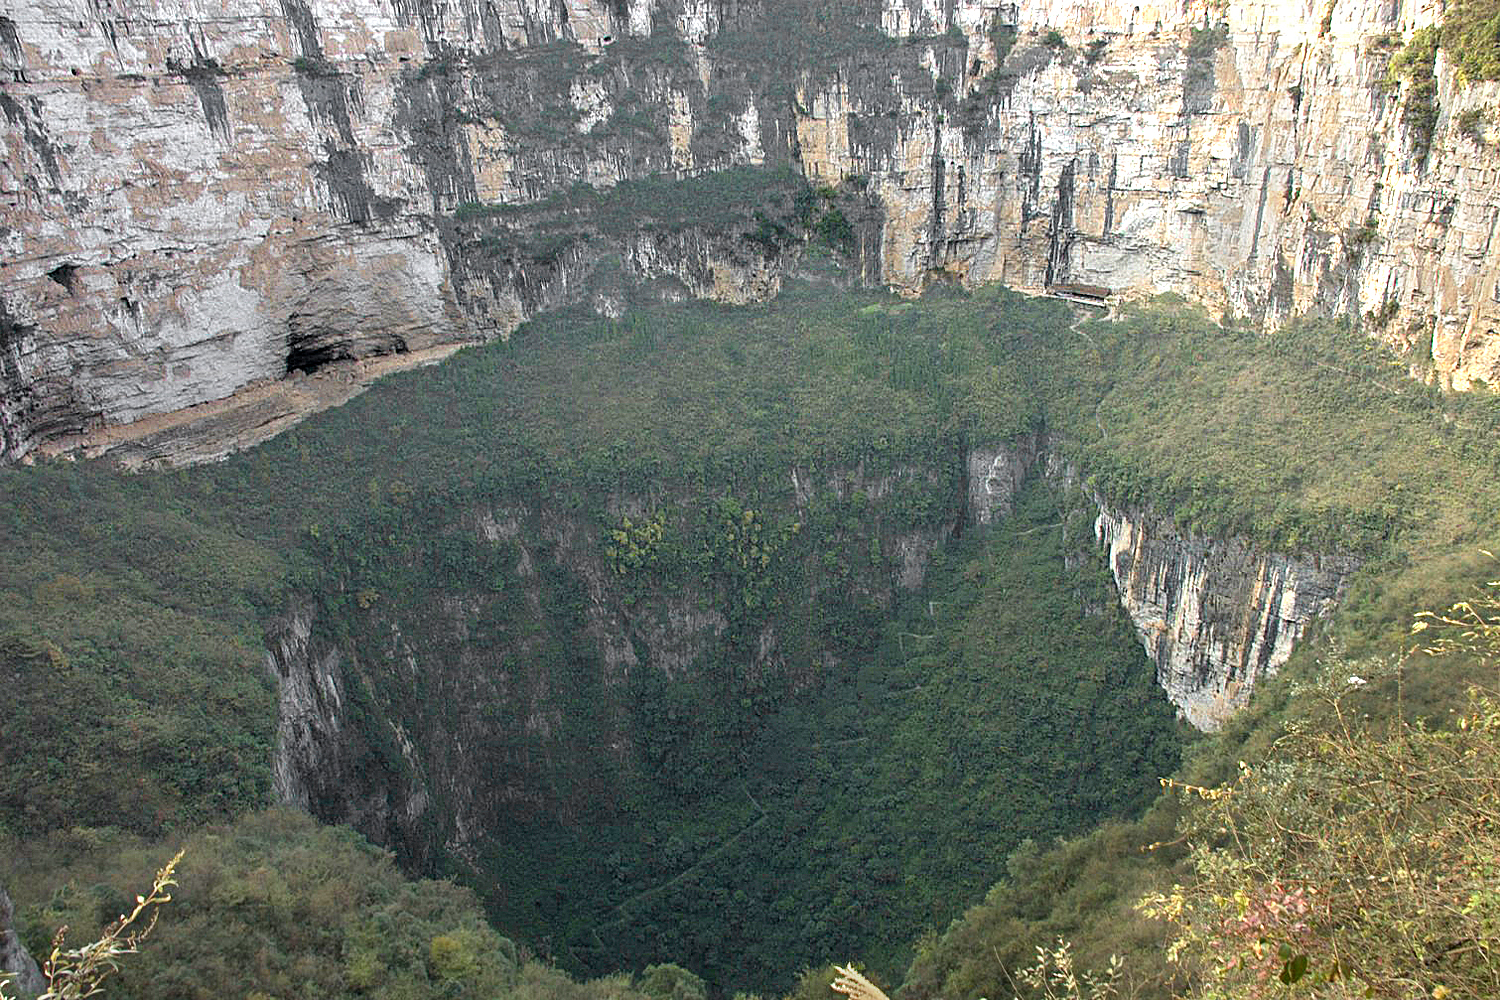
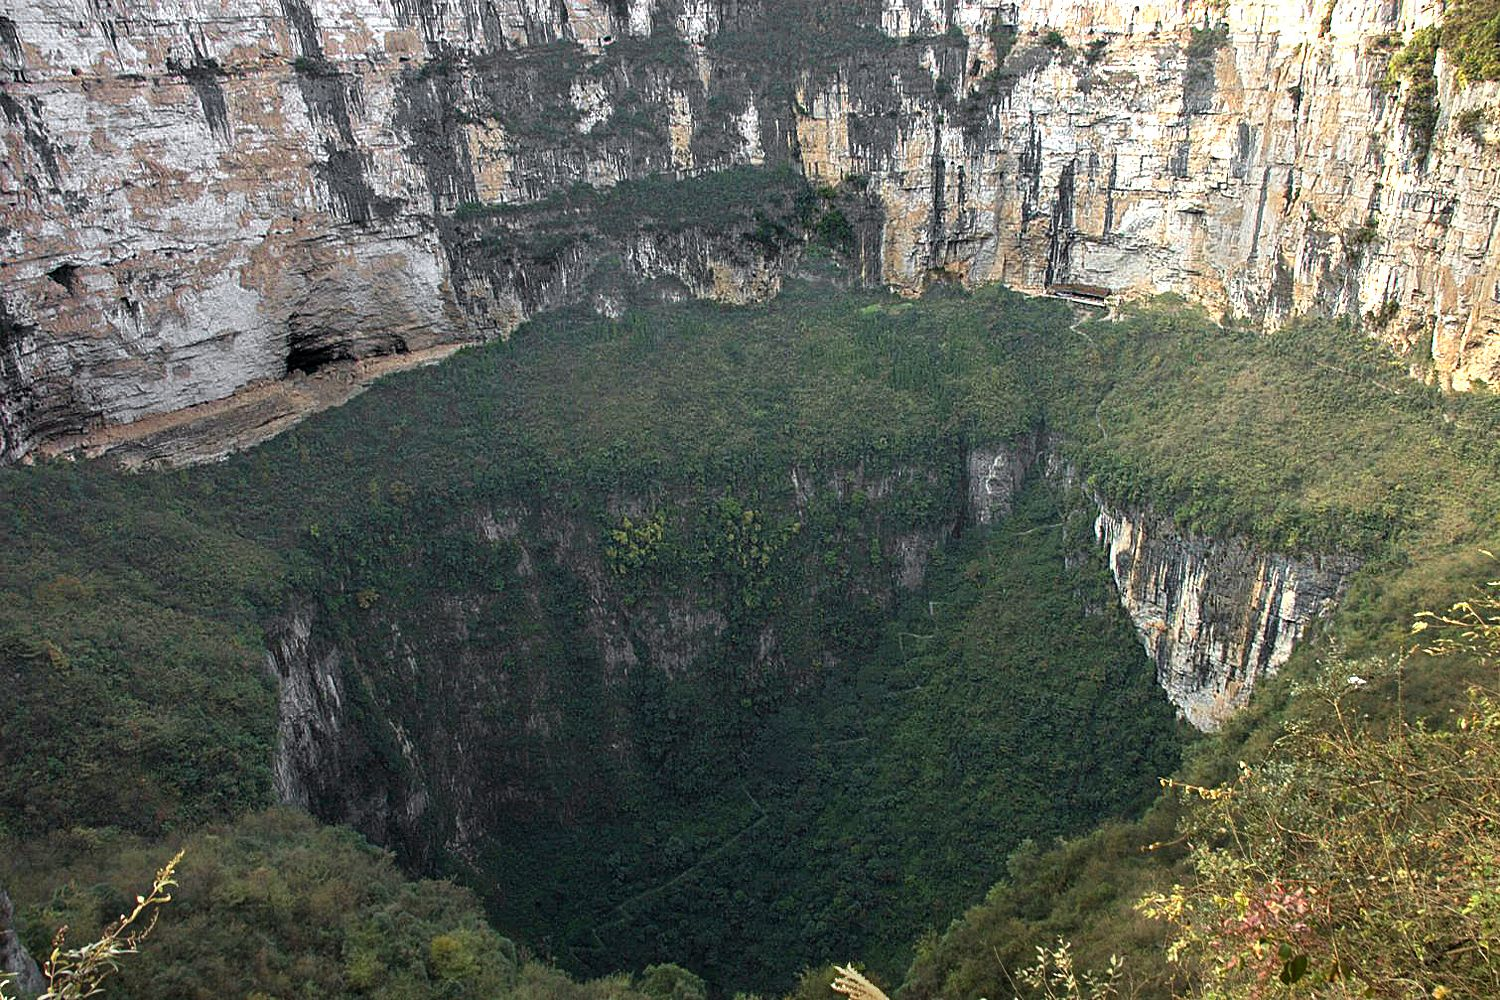
Kimberly

diff --git a/english/za/mines/Kimberley.html b/english/za/mines/Kimberley.html
@@ -180,7 +180,7 @@
         </figure>
 
         <figure class="right">
-            <a data-lightbox="page" data-title='The Big Hole of Kimberly Mines. Public Domain.' href="../../../foreign/Big/F090-176.jpg"><img alt="photography" src="../../../foreign/F090-176.jpg"></a>
+            <a data-lightbox="page" data-title='The Big Hole of Kimberly Mines. Public Domain.' href="../../../foreign/Big/F090-178.jpg"><img alt="photography" src="../../../foreign/F090-178.jpg"></a>
             <figcaption>The Big Hole of Kimberly Mines. Public Domain.</figcaption>
         </figure>
 
